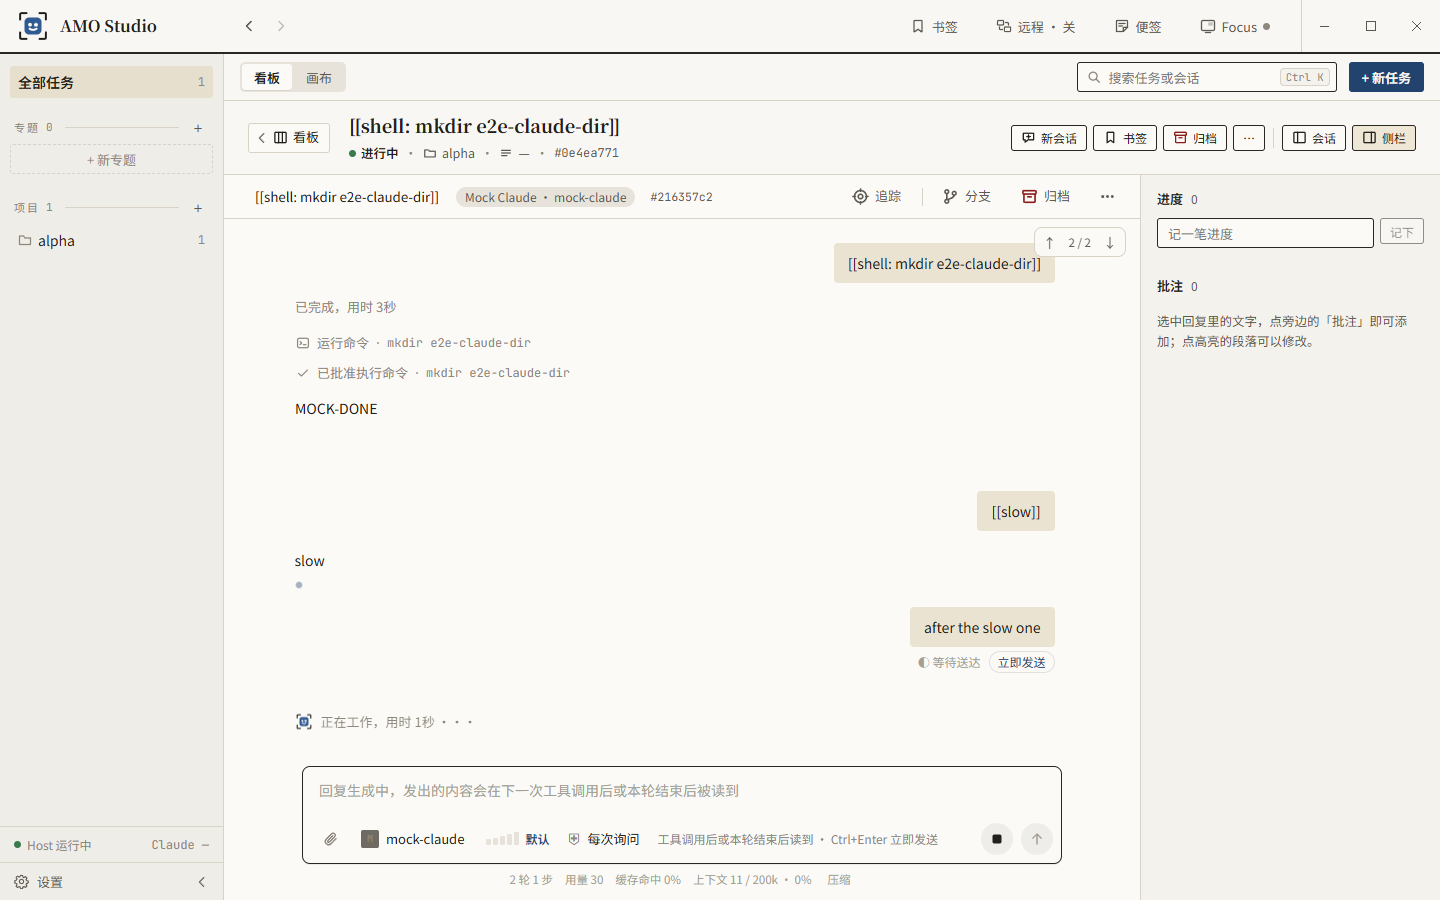
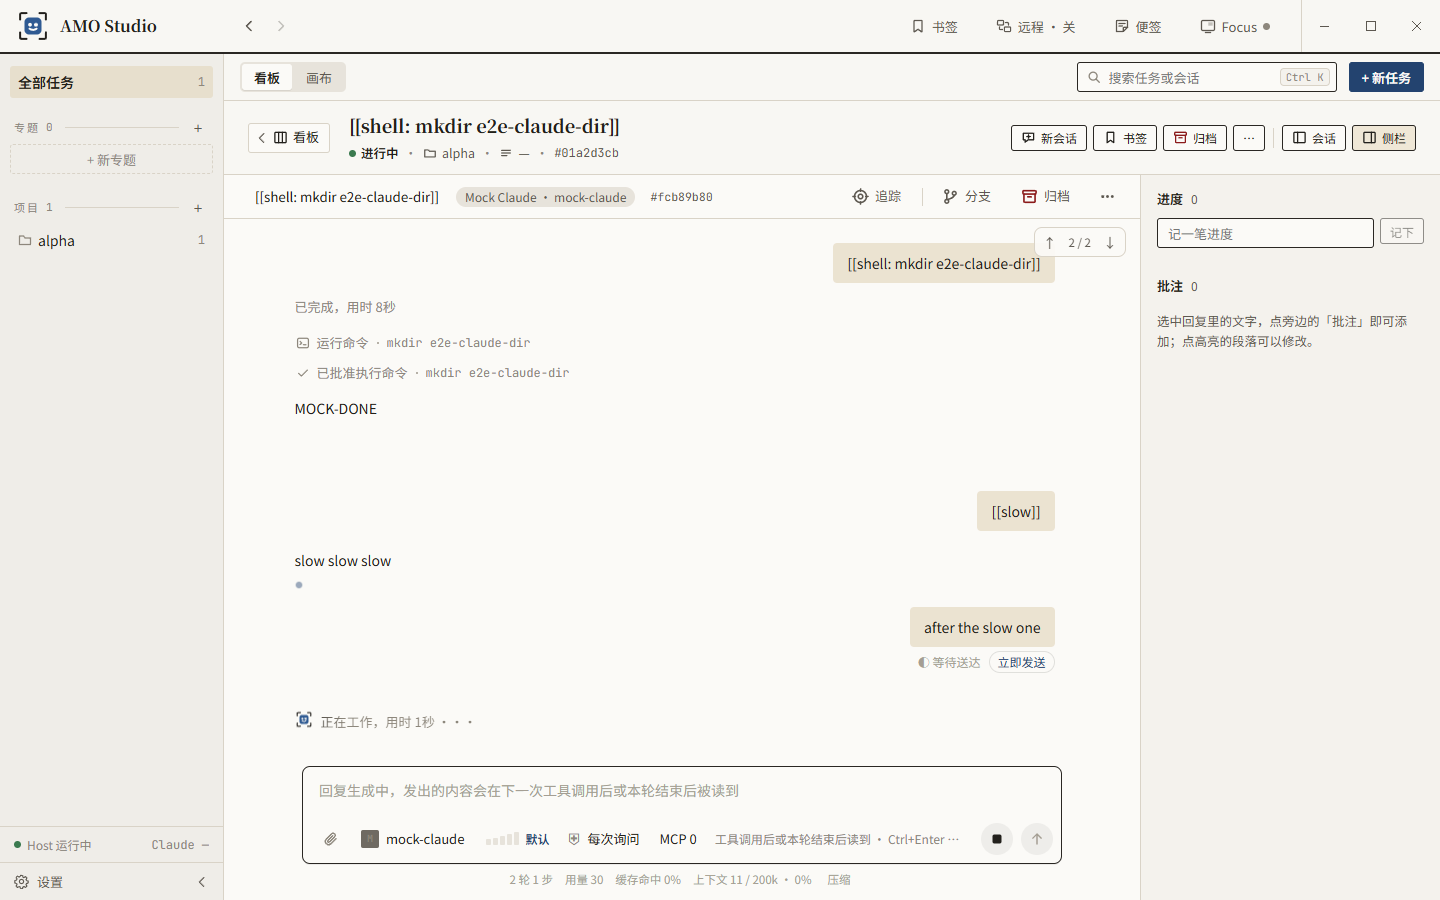
fix(studio): the inbox's next held message waits only until the turn the previous one started is seen (the session in a turn, or a turn row after it), not a blind 3 s, so several held messages go in at once under load; the DSH e2e forwards a mail while the turn waits on an approval and checks the he

diff --git a/studio/e2e/studio/dsh.spec.ts b/studio/e2e/studio/dsh.spec.ts
@@ -30,9 +30,20 @@ test("a DSH session: approval card, a message waits for the turn, no fork or ter
   await expect(card).toContainText("New-Item notes.md", { timeout: 30_000 });
   await expect(card).toContainText("the person asked for it");
   await screenshot(studio.app, "stage-17", "S17-dsh-approval", page);
+  // 2026-11-04 (plans/message-delivery.md): a mail forwarded while the turn waits on the person goes into the session's
+  // inbox — shown at once, 「等这一轮结束后送进去」 — and is sent as the next turn once this one is over.
+  const mail = await studio.api<{ id: string }>("POST", "/api/mail", { to: { kind: "session", sessionId: session.id }, text: "记得跑一下测试" });
+  await studio.api("POST", `/api/mail/${mail.id}/forward`, {});
+  const heldLine = page.getByTestId("msg-delivery").filter({ hasText: "等这一轮结束后送进去" });
+  await expect(heldLine).toHaveAttribute("data-delivery", "held");
+  await expect(heldLine.getByRole("button", { name: "立即发送" })).toBeVisible();
+  await screenshot(studio.app, "studio", "inbox-held", page);
   await card.getByRole("button", { name: "批准" }).click();
   await expect(card).toContainText("已批准");
-  await expect(page.getByTestId("msg-agent").last()).toContainText("DONE New-Item notes.md", { timeout: 30_000 });
+  await expect(page.getByTestId("msg-agent").filter({ hasText: "DONE New-Item notes.md" })).toBeVisible({ timeout: 30_000 });
+  await expect(page.getByTestId("msg-agent").last()).toContainText("记得跑一下测试", { timeout: 30_000 });
+  await expect(page.getByTestId("msg-delivery")).toHaveCount(0);
+  await expect(page.getByRole("button", { name: "发送" })).toBeVisible({ timeout: 30_000 });
 
   // DSH has no fork and no terminal of its own.
   await expect(page.getByTestId("session-fork")).toHaveCount(0);

diff --git a/studio/packages/host/src/features/sessions/inbox.ts b/studio/packages/host/src/features/sessions/inbox.ts
@@ -98,12 +98,12 @@ export class SessionInbox extends Feature {
     // The first starts a turn; the others follow it at once (queued at the CLI, steered in, or DSH's next turn) — once
     // the turn is seen to run: Codex tells it (turn/started) only after its turn/start, and a second turn/start before
     // that would not be a steer.
-    let first = true;
+    let before: number | null = null;
     for (const it of held) {
       const current = this.store.getItem(it.id);
       if (current?.type !== "user" || current.delivery !== "held") continue;
-      if (!first) await this.turnSeen(sessionId);
-      first = false;
+      if (before !== null) await this.turnSeen(sessionId, before);
+      before = current.seq;
       try {
         if (!rt.resend) throw new Error("this Host cannot send a held message");
         await rt.resend(sessionId, it.id, []);
@@ -116,12 +116,17 @@ export class SessionInbox extends Feature {
     if (!this.held(sessionId).length) this.forget(sessionId);
   }
 
-  /** Until the session is in a turn (or TURN_SEEN_MS passed: a turn that was over at once, or none started). */
-  private async turnSeen(sessionId: Id): Promise<void> {
+  /**
+   * Until the turn the message at `afterSeq` started shows: the session in a turn, or a turn row after the message (a
+   * short turn may be over already) — or TURN_SEEN_MS passed (none started).
+   */
+  private async turnSeen(sessionId: Id, afterSeq: number): Promise<void> {
     const end = Date.now() + TURN_SEEN_MS;
     while (Date.now() < end) {
       const s = this.store.getSession(sessionId);
       if (!s || inTurn(s.status)) return;
+      const [turn] = this.store.findItems(sessionId, "turn", {}, { newest: true, limit: 1 });
+      if (turn && turn.seq > afterSeq) return;
       await new Promise((r) => setTimeout(r, 50));
     }
   }

diff --git a/studio/packages/host/src/features/sessions/peer.test.ts b/studio/packages/host/src/features/sessions/peer.test.ts
@@ -216,7 +216,7 @@ describe("session_send (续发)", () => {
     await expect(service.sessions.sendPeer(caller.id, { sessionId: s.id, text: "x" })).rejects.toThrow(/已经归档/);
   });
 
-  it("one in a turn gets it once the turn is over, after its report; shown meanwhile (held); several waiting go in together", async () => {
+  it("one in a turn gets it once the turn is over, after its report; shown meanwhile (held); several waiting go in together", { timeout: 15_000 }, async () => {
     const s = await service.sessions.startPeer(caller.id, { text: "[[slow]]", report: true });
     await until(() => store.getSession(s.id)?.status === "running");
     expect(await service.sessions.sendPeer(caller.id, { sessionId: s.id, text: "阶段 2" })).toMatchObject({ delivered: false, waiting: 1 });
@@ -236,7 +236,7 @@ describe("session_send (续发)", () => {
 
 // 会话收件箱 (2026-11-04, plans/message-delivery.md): what agents and Studio send waits on disk until the session is free.
 describe("the session inbox", () => {
-  it("goes on after a Host restart, and moves session_send's old queue in", async () => {
+  it("goes on after a Host restart, and moves session_send's old queue in", { timeout: 15_000 }, async () => {
     const s = await service.sessions.startPeer(caller.id, { text: "阶段 1" });
     await until(() => store.getSession(s.id)?.status === "idle");
     // Busy when the message came; the Host stops before the session is free.

diff --git a/studio/packages/ui/src/chat/pickers.css b/studio/packages/ui/src/chat/pickers.css
@@ -86,7 +86,9 @@ kbd {
 
 /* ---- the session's status line and its trays ------------------------------------------------------------------- */
 
-.session-options { position: static; display: flex; align-items: center; gap: 6px; min-width: 0; flex-wrap: wrap; }
+/* flex: none (2026-11-04): shrunk below its chips (MCP N came on 11-04) they ran over the composer hint beside it; the
+   hint is the one to give way (it ellipsizes). */
+.session-options { position: static; display: flex; align-items: center; gap: 6px; min-width: 0; flex: none; flex-wrap: wrap; }
 .composer-card { position: relative; }
 .status-line { display: flex; align-items: center; gap: 4px; min-width: 0; }
 .seg-btn {
